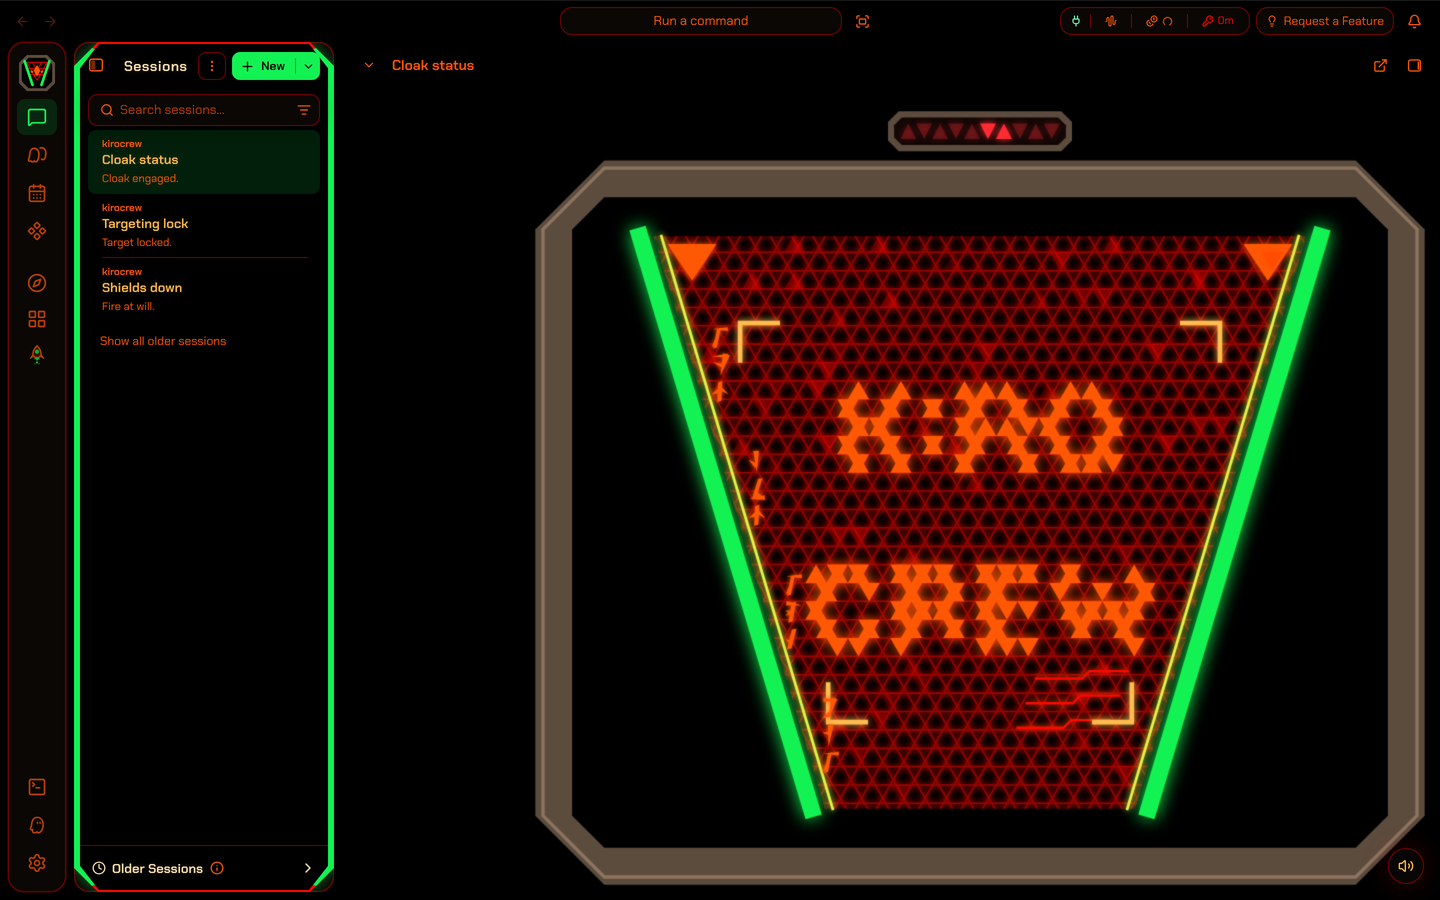
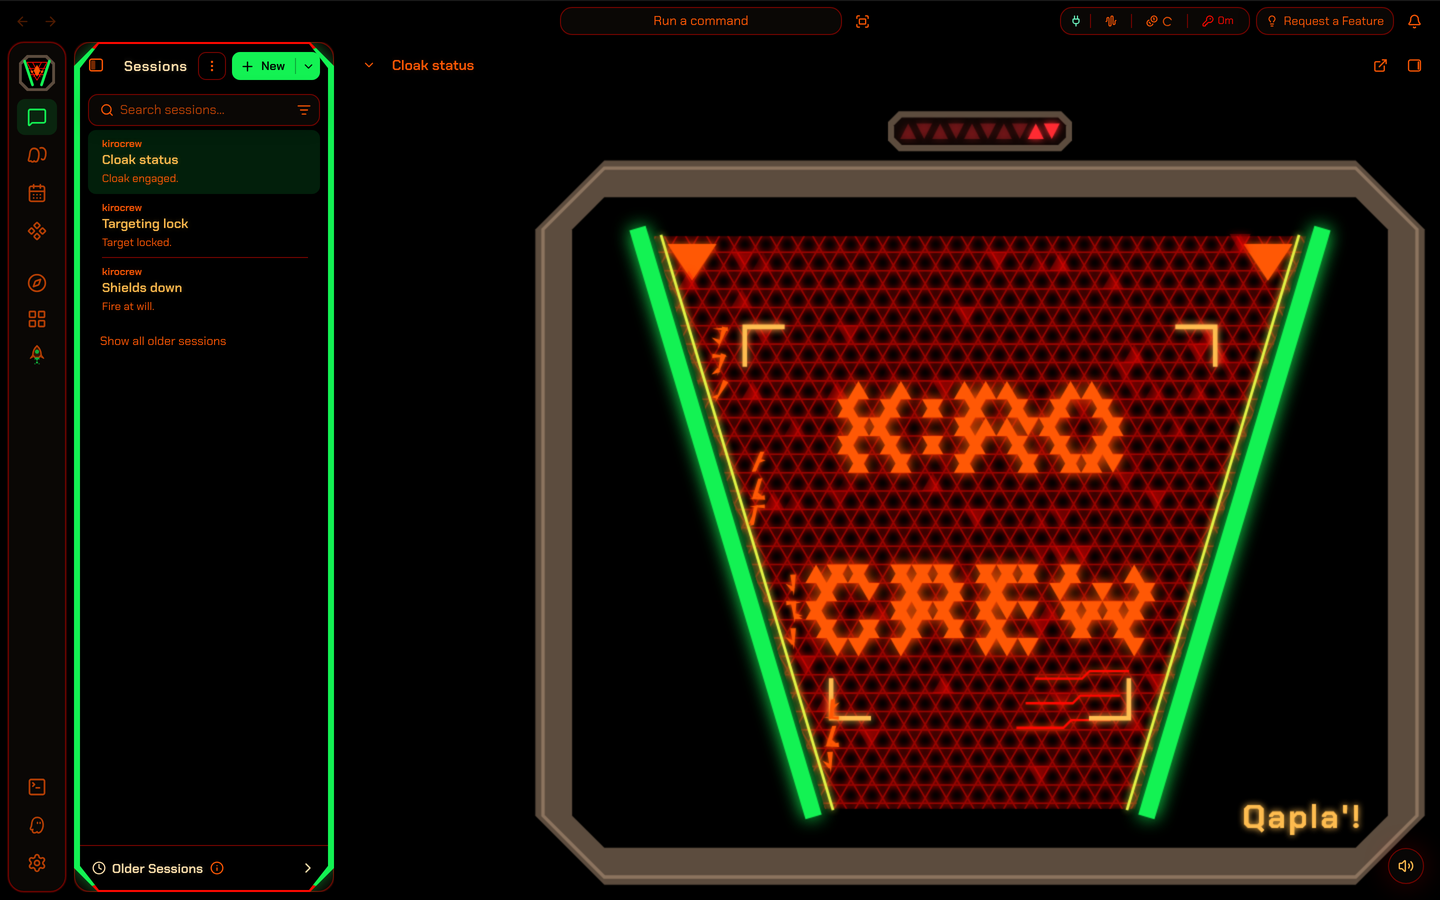
Trace the Klingon emblem from the film; add Qapla'!
Exported from the source repo at 473d2a7; synthesized sounds only (audio
check passed).

diff --git a/overlays/standby.html b/overlays/standby.html
@@ -34,8 +34,8 @@
  */
 (() => {
   'use strict'
[1 lines of base64/hex data omitted]
-  const C = {"housing":"#5c4c3e","rim":"#8c745f","lattice":"#ff0800","lattice_line":"#990500","edge":"#13f253","edge2":"#e1f244","target":"#ff5805","amber":"#ffbc4f","indicator":"#ff2b32","glyph":"#fab84d","monitor":"#14bdff","script":"#ffb0df","console":"#6bf2be","digits":"#ff201c","dim":"#4c0300","glyphs":[[[[0.198,0.009],[0.399,1.0],[0.465,-0.009]],[[0.005,0.18],[0.72,0.043],[-0.005,-0.02]],[[0.36,0.716],[0.76,0.675],[0.387,0.526]],[[0.349,0.823],[0.76,0.818],[0.41,0.601]]],[[[0.221,0.062],[0.035,0.984],[0.211,0.938],[0.397,0.016]],[[0.72,-0.005],[0.0,0.082],[0.72,0.165]],[[0.117,0.555],[-0.04,0.935],[0.271,0.665]]],[[[0.414,0.05],[0.123,0.973],[0.315,0.95],[0.607,0.027]],[[0.711,0.818],[0.0,0.984],[0.729,1.022]],[[0.233,0.841],[0.76,1.0],[0.345,0.638]]],[[[0.267,0.075],[0.223,0.995],[0.42,0.925],[0.464,0.005]],[[0.297,0.401],[0.76,0.634],[0.406,0.256]],[[0.291,0.323],[-0.04,0.636],[0.403,0.53]]],[[[0.196,-0.002],[0.313,1.0],[0.458,0.002]],[[0.385,0.66],[0.76,0.188],[0.253,0.514]]],[[[0.282,0.049],[0.011,0.973],[0.221,0.951],[0.491,0.027]],[[0.284,0.712],[0.719,0.243],[0.148,0.529]]],[[[0.381,-0.048],[0.232,1.0],[0.696,0.048]],[[0.44,0.588],[0.76,0.171],[0.317,0.455]]],[[[0.406,-0.058],[0.174,1.0],[0.71,0.058]],[[0.705,-0.01],[0.0,0.2],[0.735,0.17]],[[0.482,0.265],[-0.04,0.01],[0.372,0.419]]],[[[0.351,0.069],[0.255,0.99],[0.457,0.931],[0.553,0.01]],[[0.722,0.837],[0.0,0.902],[0.718,1.003]],[[0.469,0.54],[0.76,0.191],[0.347,0.382]]],[[[0.182,0.005],[0.35,1.0],[0.445,-0.005]],[[0.406,0.602],[-0.04,0.415],[0.271,0.786]]],[[[0.246,0.063],[0.092,0.984],[0.298,0.937],[0.451,0.016]],[[-0.017,0.184],[0.72,0.195],[0.017,-0.024]],[[0.3,0.414],[-0.04,0.43],[0.236,0.63]],[[0.22,0.402],[-0.04,0.657],[0.321,0.61]]],[[[0.241,-0.03],[0.184,1.0],[0.533,0.03]],[[0.288,0.637],[-0.04,0.58],[0.191,0.819]],[[0.23,0.361],[-0.04,0.743],[0.367,0.513]]],[[[0.43,0.062],[0.273,0.983],[0.48,0.938],[0.637,0.017]],[[-0.004,1.007],[0.72,0.952],[0.004,0.833]],[[0.445,0.544],[-0.04,0.573],[0.416,0.739]]],[[[0.519,-0.052],[0.248,1.0],[0.778,0.052]],[[0.382,0.79],[0.76,0.658],[0.368,0.578]],[[0.331,0.688],[0.76,0.904],[0.487,0.509]]],[[[0.508,-0.06],[0.115,1.0],[0.743,0.06]],[[0.243,0.634],[-0.04,0.754],[0.255,0.842]]],[[[0.389,0.047],[0.08,0.971],[0.281,0.953],[0.59,0.029]],[[0.473,0.381],[0.76,0.0],[0.333,0.213]],[[0.286,0.736],[0.76,0.651],[0.291,0.543]]],[[[0.332,0.074],[0.265,0.994],[0.442,0.926],[0.509,0.006]],[[0.377,0.339],[-0.04,0.5],[0.405,0.541]],[[0.402,0.252],[-0.04,0.344],[0.391,0.479]]],[[[0.393,-0.037],[0.23,1.0],[0.646,0.037]],[[-0.003,0.178],[0.72,0.103],[0.003,-0.018]],[[0.247,0.628],[-0.04,0.945],[0.37,0.825]]],[[[0.259,0.054],[0.028,0.976],[0.238,0.946],[0.469,0.024]],[[0.266,0.578],[-0.04,0.504],[0.148,0.756]]],[[[0.218,0.007],[0.415,1.0],[0.517,-0.007]],[[0.704,0.816],[0.0,1.033],[0.736,1.024]],[[0.473,0.713],[0.76,0.32],[0.321,0.529]]],[[[0.403,-0.027],[0.362,1.0],[0.694,0.027]],[[-0.012,0.175],[0.72,0.168],[0.012,-0.015]],[[0.533,0.423],[0.76,0.209],[0.447,0.204]],[[0.467,0.566],[-0.04,0.476],[0.38,0.773]]],[[[0.494,-0.045],[0.375,1.0],[0.816,0.045]],[[0.715,-0.023],[0.0,0.114],[0.725,0.183]],[[0.533,0.462],[0.026,0.382],[0.467,0.645]]],[[[0.222,0.004],[0.395,1.0],[0.516,-0.004]],[[0.314,0.337],[-0.04,0.76],[0.446,0.499]]],[[[0.506,0.04],[0.111,0.966],[0.301,0.96],[0.696,0.034]],[[0.431,0.563],[0.76,0.428],[0.413,0.352]]],[[[0.209,-0.014],[0.24,1.0],[0.479,0.014]],[[0.311,0.276],[-0.04,0.359],[0.298,0.484]]],[[[0.451,-0.04],[0.263,1.0],[0.707,0.04]],[[0.721,-0.009],[0.0,0.071],[0.719,0.169]],[[0.411,0.599],[-0.04,0.477],[0.308,0.79]]],[[[0.471,0.054],[0.229,0.977],[0.428,0.946],[0.67,0.023]],[[0.725,0.82],[0.0,0.881],[0.715,1.02]],[[0.432,0.331],[-0.006,0.58],[0.497,0.552]]],[[[0.218,0.088],[0.292,1.008],[0.478,0.912],[0.404,-0.008]],[[0.295,0.806],[0.76,1.0],[0.435,0.616]]]],"name":"KIRO CREW"}
[1 lines of base64/hex data omitted]
+  const C = {"housing":"#5c4c3e","rim":"#8c745f","lattice":"#ff0800","lattice_line":"#990500","edge":"#13f253","edge2":"#e1f244","target":"#ff5805","amber":"#ffbc4f","indicator":"#ff2b32","glyph":"#fab84d","monitor":"#14bdff","script":"#ffb0df","console":"#6bf2be","digits":"#ff201c","emblem_prong":"#2e2221","emblem_gold":"#f2aa5c","emblem_disc":"#d4c7d9","dim":"#4c0300","glyphs":[[[[0.198,0.009],[0.399,1.0],[0.465,-0.009]],[[0.005,0.18],[0.72,0.043],[-0.005,-0.02]],[[0.36,0.716],[0.76,0.675],[0.387,0.526]],[[0.349,0.823],[0.76,0.818],[0.41,0.601]]],[[[0.221,0.062],[0.035,0.984],[0.211,0.938],[0.397,0.016]],[[0.72,-0.005],[0.0,0.082],[0.72,0.165]],[[0.117,0.555],[-0.04,0.935],[0.271,0.665]]],[[[0.414,0.05],[0.123,0.973],[0.315,0.95],[0.607,0.027]],[[0.711,0.818],[0.0,0.984],[0.729,1.022]],[[0.233,0.841],[0.76,1.0],[0.345,0.638]]],[[[0.267,0.075],[0.223,0.995],[0.42,0.925],[0.464,0.005]],[[0.297,0.401],[0.76,0.634],[0.406,0.256]],[[0.291,0.323],[-0.04,0.636],[0.403,0.53]]],[[[0.196,-0.002],[0.313,1.0],[0.458,0.002]],[[0.385,0.66],[0.76,0.188],[0.253,0.514]]],[[[0.282,0.049],[0.011,0.973],[0.221,0.951],[0.491,0.027]],[[0.284,0.712],[0.719,0.243],[0.148,0.529]]],[[[0.381,-0.048],[0.232,1.0],[0.696,0.048]],[[0.44,0.588],[0.76,0.171],[0.317,0.455]]],[[[0.406,-0.058],[0.174,1.0],[0.71,0.058]],[[0.705,-0.01],[0.0,0.2],[0.735,0.17]],[[0.482,0.265],[-0.04,0.01],[0.372,0.419]]],[[[0.351,0.069],[0.255,0.99],[0.457,0.931],[0.553,0.01]],[[0.722,0.837],[0.0,0.902],[0.718,1.003]],[[0.469,0.54],[0.76,0.191],[0.347,0.382]]],[[[0.182,0.005],[0.35,1.0],[0.445,-0.005]],[[0.406,0.602],[-0.04,0.415],[0.271,0.786]]],[[[0.246,0.063],[0.092,0.984],[0.298,0.937],[0.451,0.016]],[[-0.017,0.184],[0.72,0.195],[0.017,-0.024]],[[0.3,0.414],[-0.04,0.43],[0.236,0.63]],[[0.22,0.402],[-0.04,0.657],[0.321,0.61]]],[[[0.241,-0.03],[0.184,1.0],[0.533,0.03]],[[0.288,0.637],[-0.04,0.58],[0.191,0.819]],[[0.23,0.361],[-0.04,0.743],[0.367,0.513]]],[[[0.43,0.062],[0.273,0.983],[0.48,0.938],[0.637,0.017]],[[-0.004,1.007],[0.72,0.952],[0.004,0.833]],[[0.445,0.544],[-0.04,0.573],[0.416,0.739]]],[[[0.519,-0.052],[0.248,1.0],[0.778,0.052]],[[0.382,0.79],[0.76,0.658],[0.368,0.578]],[[0.331,0.688],[0.76,0.904],[0.487,0.509]]],[[[0.508,-0.06],[0.115,1.0],[0.743,0.06]],[[0.243,0.634],[-0.04,0.754],[0.255,0.842]]],[[[0.389,0.047],[0.08,0.971],[0.281,0.953],[0.59,0.029]],[[0.473,0.381],[0.76,0.0],[0.333,0.213]],[[0.286,0.736],[0.76,0.651],[0.291,0.543]]],[[[0.332,0.074],[0.265,0.994],[0.442,0.926],[0.509,0.006]],[[0.377,0.339],[-0.04,0.5],[0.405,0.541]],[[0.402,0.252],[-0.04,0.344],[0.391,0.479]]],[[[0.393,-0.037],[0.23,1.0],[0.646,0.037]],[[-0.003,0.178],[0.72,0.103],[0.003,-0.018]],[[0.247,0.628],[-0.04,0.945],[0.37,0.825]]],[[[0.259,0.054],[0.028,0.976],[0.238,0.946],[0.469,0.024]],[[0.266,0.578],[-0.04,0.504],[0.148,0.756]]],[[[0.218,0.007],[0.415,1.0],[0.517,-0.007]],[[0.704,0.816],[0.0,1.033],[0.736,1.024]],[[0.473,0.713],[0.76,0.32],[0.321,0.529]]],[[[0.403,-0.027],[0.362,1.0],[0.694,0.027]],[[-0.012,0.175],[0.72,0.168],[0.012,-0.015]],[[0.533,0.423],[0.76,0.209],[0.447,0.204]],[[0.467,0.566],[-0.04,0.476],[0.38,0.773]]],[[[0.494,-0.045],[0.375,1.0],[0.816,0.045]],[[0.715,-0.023],[0.0,0.114],[0.725,0.183]],[[0.533,0.462],[0.026,0.382],[0.467,0.645]]],[[[0.222,0.004],[0.395,1.0],[0.516,-0.004]],[[0.314,0.337],[-0.04,0.76],[0.446,0.499]]],[[[0.506,0.04],[0.111,0.966],[0.301,0.96],[0.696,0.034]],[[0.431,0.563],[0.76,0.428],[0.413,0.352]]],[[[0.209,-0.014],[0.24,1.0],[0.479,0.014]],[[0.311,0.276],[-0.04,0.359],[0.298,0.484]]],[[[0.451,-0.04],[0.263,1.0],[0.707,0.04]],[[0.721,-0.009],[0.0,0.071],[0.719,0.169]],[[0.411,0.599],[-0.04,0.477],[0.308,0.79]]],[[[0.471,0.054],[0.229,0.977],[0.428,0.946],[0.67,0.023]],[[0.725,0.82],[0.0,0.881],[0.715,1.02]],[[0.432,0.331],[-0.006,0.58],[0.497,0.552]]],[[[0.218,0.088],[0.292,1.008],[0.478,0.912],[0.404,-0.008]],[[0.295,0.806],[0.76,1.0],[0.435,0.616]]]],"name":"KIRO CREW","phrase":"Qapla'!"}
 
   const canvas = document.getElementById('screen')
   let ctx = canvas.getContext('2d')
@@ -127,7 +127,8 @@
    * columns of orange Klingon-style glyphs (original, made in code), and
    * the target: the app's name drawn out of lit lattice triangles, with an
    * amber bracket that locks onto it. Lit cells on the lattice ripple as the
-   * bracket closes.
+   * bracket closes. The Klingon phrase Qapla'! ("Success!") sits in the lower
+   * right corner.
    */
   const SEED = 1984
   const TAU = Math.PI * 2
@@ -298,6 +299,9 @@
       const y = L.rails.y + k * 1.6 * u, x = L.rails.x - 0.6 * u * k
       ctx.beginPath(); ctx.moveTo(x, y); ctx.lineTo(x + 3 * u, y); ctx.lineTo(x + 3.5 * u, y - 0.5 * u); ctx.lineTo(x + 6 * u, y - 0.5 * u); ctx.stroke()
     }
+    // Qapla'! ("Success!") in the lower right corner, clear of the trapezoid.
+    glow(C.amber, 0.4 * u)
+    text(C.phrase, scr.x + scr.w - 1.8 * u, scr.y + scr.h - 1.3 * u, Math.min(1.5 * u, 0.055 * scr.h), C.amber, 'r', 0.08)
     noGlow()
   }
 

diff --git a/README.md b/README.md
@@ -4,9 +4,9 @@ An unofficial Kiro Crew theme modeled on the Klingon Bird-of-Prey bridge in *Sta
 
 - **Look:** Klaa's targeting display in *The Final Frontier*. A faint red triangle lattice behind the chat, a session list framed by glowing green sides, amber panel light for the text, orange target triangles for secondary text, code in the bronze octagonal housing of the bridge viewscreen.
 - **Thinking indicator:** an orange target of lit triangles with an amber bracket closing on it.
-- **Welcome mark:** the Klingon emblem as the Bird-of-Prey bridge panels carried it: all-red prongs on an amber circle.
-- **Screensaver:** after 15 minutes with no key press, click, scroll or touch, the targeting display fills the screen: green sides, the red lattice, orange glyph columns and corner triangles, the app's name drawn out of lit triangles with a bracket locking onto it, and the red triangle indicator that sits above Chang's viewscreen. Press a key or click to dismiss it; the click does not reach the app. The dashboard's nav, session list and chat header stay on top, so the display fills the area to their right. It does not run when the OS is set to reduce motion, and it stops after 30 minutes.
-- **Desktop splash:** while the desktop app waits for its gateway, the same targeting display in the bronze housing. It holds still when the OS asks for reduced motion.
+- **Welcome mark:** the Klingon Empire emblem as the films show it, black prongs edged in gold on a pale disc ringed in gold, traced from the Klingon transmission at the start of *The Undiscovered Country*, with the Klingon phrase *Qapla'!* ("Success!") under it.
+- **Screensaver:** after 15 minutes with no key press, click, scroll or touch, the targeting display fills the screen: green sides, the red lattice, orange glyph columns and corner triangles, the app's name drawn out of lit triangles with a bracket locking onto it, the red triangle indicator that sits above Chang's viewscreen, and *Qapla'!* in the lower right corner. Press a key or click to dismiss it; the click does not reach the app. The dashboard's nav, session list and chat header stay on top, so the display fills the area to their right. It does not run when the OS is set to reduce motion, and it stops after 30 minutes.
+- **Desktop splash:** while the desktop app waits for its gateway, the same targeting display in the bronze housing, with *Qapla'!* in the lower right corner. It holds still when the OS asks for reduced motion.
 - **Code:** code blocks, diffs and the file viewer use the `everforest-dark` scheme (green, orange, red and amber) in both modes.
 - **Light mode:** the same as dark. The films have no light screens.
 - **Type:** Chakra Petch, a free sans whose letters have cut corners, like the screen housings. The Klingon screens carry no Latin type, only Klingon glyphs, so there is no film face to match.
@@ -22,7 +22,7 @@ Pick System under Settings → Display → Font Family to keep the OS font.
 
 | Chat | Screensaver | Desktop splash | Welcome mark | First pick |
 |---|---|---|---|---|
-| ![Amber text on black over a faint red triangle lattice, the session list framed by glowing green sides, code in bronze bevelled housings, a green button](.github/screenshots/bird-of-prey-dark.png) | ![A bronze bevelled housing: a red triangle lattice in a trapezoid with glowing green sides, KIRO CREW drawn out of lit orange triangles, an amber bracket, orange glyph columns, a red triangle indicator above](.github/screenshots/bird-of-prey-screensaver.png) | ![Desktop splash: the Bird-of-Prey targeting display, green sides, a red lattice, KIRO CREW in lit orange triangles with a bracket](.github/screenshots/bird-of-prey-splash.jpg) | ![A new chat's welcome screen: the Klingon emblem in red on an amber disc above an amber greeting and six starter cards](.github/screenshots/bird-of-prey-welcome.jpg) | ![The dialog "Enable Klingon · Bird-of-Prey experience?" with Sounds and Overlays checked, and Keep colors only and Save buttons](.github/screenshots/bird-of-prey-first-pick.jpg) |
+| ![Amber text on black over a faint red triangle lattice, the session list framed by glowing green sides, code in bronze bevelled housings, a green button](.github/screenshots/bird-of-prey-dark.png) | ![A bronze bevelled housing: a red triangle lattice in a trapezoid with glowing green sides, KIRO CREW drawn out of lit orange triangles, an amber bracket, orange glyph columns, a red triangle indicator above](.github/screenshots/bird-of-prey-screensaver.png) | ![Desktop splash: the Bird-of-Prey targeting display, green sides, a red lattice, KIRO CREW in lit orange triangles with a bracket](.github/screenshots/bird-of-prey-splash.jpg) | ![A new chat's welcome screen: the Klingon emblem, black prongs edged in gold on a pale disc, with Qapla'! under it, above an amber greeting and six starter cards](.github/screenshots/bird-of-prey-welcome.jpg) | ![The dialog "Enable Klingon · Bird-of-Prey experience?" with Sounds and Overlays checked, and Keep colors only and Save buttons](.github/screenshots/bird-of-prey-first-pick.jpg) |
 
 ## The two Klingon packs
 
@@ -56,7 +56,7 @@ Sources: *The Search for Spock* and *The Voyage Home* 4K remaster Blu-ray (2021)
 | lattice | V 542 | the red triangle lattice of Klaa's targeting display | 2°, 1.00 |
 | edge | V 542 | its glowing green sides | 137°, 0.92 |
 | target | V 542 | the orange target and corner triangles | 20°, 0.98 |
-| amber | V 681 | the amber backlit emblem panel on Klaa's bridge | 37°, 0.69 |
+| amber | V 681 | the amber backlit panel on Klaa's bridge | 37°, 0.69 |
 | monitor | III 775 | the cyan Enterprise wireframe on Kruge's monitor | 197°, 0.92 |
 | script | III 775 | the pink glyphs under it (saturation floor 40/255) | 324°, 0.31 |
 | console | VI 1734 | the green-lit console blocks on Chang's bridge | 157°, 0.56 |
@@ -69,7 +69,31 @@ Shapes: the targeting display is a trapezoid, wide at the top, with the green ba
 
 Type: none on the Klingon screens. The orange "60" countdown digits in III (frames 848, 869, 872) are the Enterprise's self-destruct, seen on a Klingon monitor, so they are not used. Chakra Petch, as above.
 
-Emblem: the amber backlit panel on Klaa's bridge carries the trefoil in red-orange on amber (V 681). Memory Alpha says the Bird-of-Prey interiors in III and IV carried it "with a prominent red prong accompanied by two black prongs on a green circle, or all red prongs on a yellow circle". The pack draws the all-red form on the measured amber.
+Emblem: see "The emblem" below. The amber backlit panel on Klaa's bridge (V 681) carries a red-orange mark, but it is out of focus and its two side arms both rise, so it is not a clear emblem; only its amber is used (as `amber`).
+
+### The emblem
+
+Frame: *The Undiscovered Country*, Chapter 1, frame 140 (the same graphic in 139, 147 and 150): the Klingon Empire emblem on the *Excelsior*'s viewscreen as the Klingon transmission comes in after Praxis. Memory Alpha's file "Klingon emblem.jpg" is the same shot ("The emblem of the Klingon Empire displayed on the USS Excelsior viewscreen in 2293"). It is the clearest emblem in the five films: full frame, sharp edges, flat colour.
+
+What it shows: three separate black prongs, each with a gold edge, over a pale disc ringed in gold. The top prong is a long kite: a needle tip far above the disc, widest just below the ring, a point at the disc's centre. The lower left prong sweeps down and out to a hooked tip below the disc; the lower right prong sweeps out to the right, its tip a little above its base. The lower prongs' tips reach past the ring; their inner corners nearly meet under the top prong's point.
+
+| Colour | What it is | Film hue, sat, value |
+|---|---|---|
+| prong | the black inside each prong (a warm near-black) | 5°, 0.29, 0.18 |
+| gold | the prongs' edges and the ring | 31°, 0.62, 0.95 |
+| disc | the pale disc | 282°, 0.08, 0.85 |
+
+The emblem is a mark, not text, so it keeps the film's brightness as well. The build's frame check re-measures all three on the frame.
+
+Trace: the frame was upscaled 2x and sharpened; the black was taken at half intensity between the black (value 0.18) and the gold or pale round it, and also as the dip between the two gold edges where the top prong narrows to its tip; the gold beyond the ring is everything that is not the red screen; the disc and the ring are circles fitted to the pale disc's edge and the ring's outer edge (radius 112.0 and 126.4 px, centre 886.0, 474.1). Each outline was then refitted as smooth cubic Bézier curves within 1.2 px of the trace (the top prong's left gold edge is one curve, within 1.6 px), sharp only at its corners (the prong tips, the kite's side points and the inner notches): 29 curve segments in all, where the first traced polygons had 122 points and showed the trace's bumps. The drawn prongs cover the frame's black with an IoU of 0.90 (0.91 before smoothing), and 95% of the pixels round the emblem fall in the same class (prong, gold, disc or screen) in the frame and in the drawing. The outline is kept as vector data; the frame is not stored.
+
+Other appearances checked: *The Search for Spock*, Kruge's bridge (frames 104, 116, 117): a yellow triangular plaque on the wall with a red long prong, dark lower prongs and a green disc, as Memory Alpha describes the 2280s emblem; through the bridge haze it is too soft to trace or measure. *The Final Frontier*, frame 681: the panel above. *The Motion Picture*: none (see that section).
+
+Both packs draw the frame-140 emblem in the frame-140 colours: no film gives the K't'inga a different one that a frame confirms.
+
+### The phrase
+
+*Qapla'!* ("Success!"), in Marc Okrand's spelling from *The Klingon Dictionary* (p. 171): capital Q, lowercase l, a straight apostrophe, then the exclamation mark. It sits under the emblem on the welcome mark, on each splash and on each screensaver, set in the pack's font. It is the only Klingon phrase in the packs; the new-chat greeting stays English, because Kiro Crew 0.13 gives a pack no way to change it.
 
 Not used: the Enterprise wireframe on Kruge's monitor (III 775) is a Federation ship on a Klingon screen; the *Bounty*'s console inlays (IV 326, 331, 332) are Starfleet light-table graphics in the Klingon ship; Chang's console lamps (VI 1734, 1736, 1756) are physical buttons, not displays. The *Bounty*'s grey-brown viewport housing (IV 364, 401) matches the bronze measured in III and was not measured separately.
 
